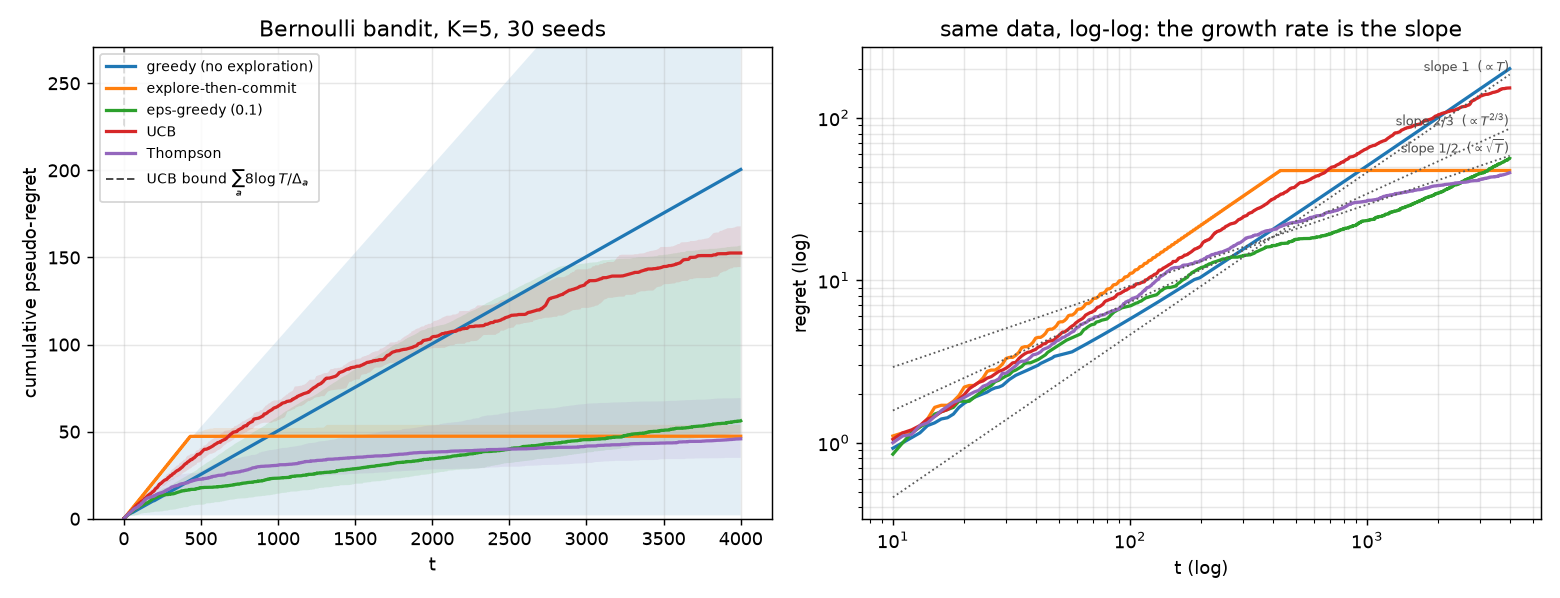
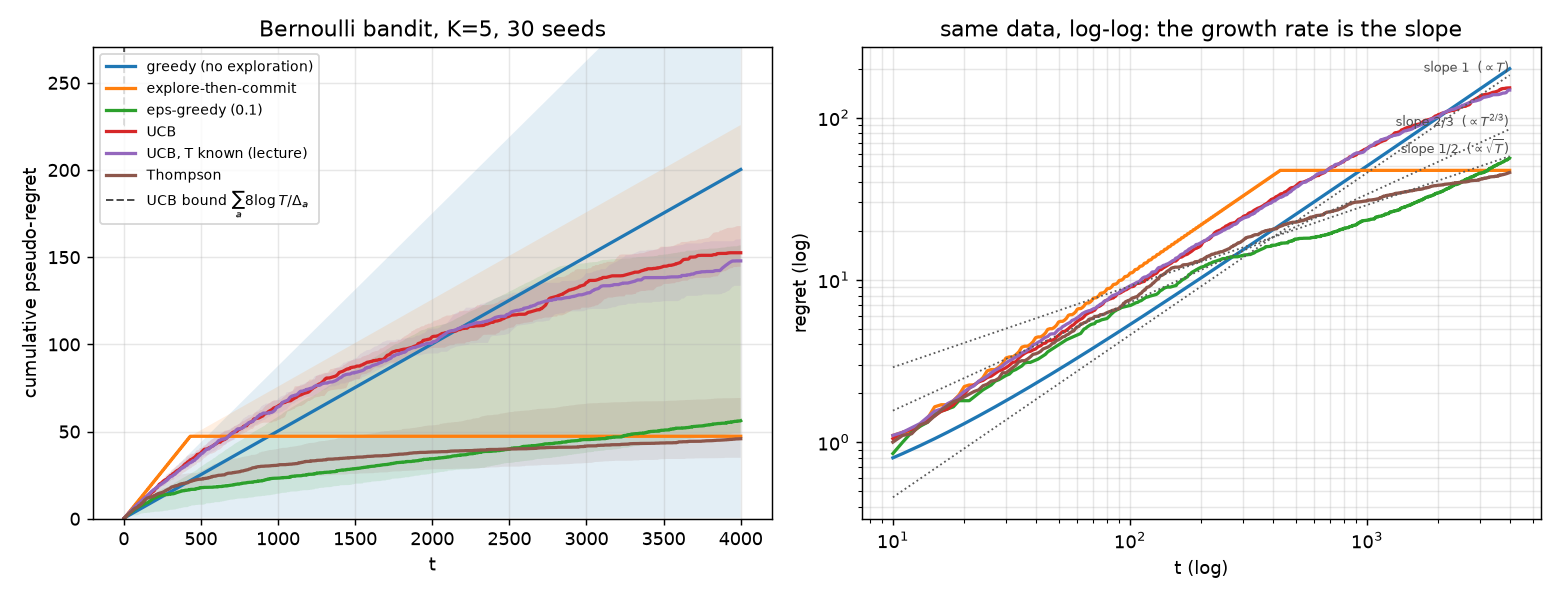
Added RL1 lab

diff --git a/RL/labs/P01_bandits/report.md b/RL/labs/P01_bandits/report.md
@@ -1,10 +1,5 @@
 # P01 report — <your name>, <student ID>
 
-Keep it to one page, about five lines per answer, written in the body of your
-email. Three figures: `regret.png`, the one for Q2, and the one after your Part C
-change. Delete these instructions before submitting.
-
----
 
 ## Q1. The three growth rates
 
@@ -21,8 +16,9 @@ Greedy: slope 1. It tries each arm once, commits to the best of those K single s
 
 ε-greedy: linear (slope 1) in the long run, though at T = 4000 the curve still bends below that line. At every step, with probability ε it pulls a random arm and otherwise the arm with the best running mean. The running means keep correcting an unlucky start by updating the argmax with respect to the newly computed means, but the random pulls never stop: a fixed fraction ε of the steps is wasted forever, at about ε times the average gap, so the regret keeps growing, at a rate that settles to a constant per step.
 
-
 UCB: slope ≈ 1/2 in theory (√T up to a log). At each step it pulls the arm with the highest mean plus a confidence bonus that is large for rarely pulled arms and shrinks as 1/√N, so a bad arm is pulled only until its upper bound falls below the best arm's, after which it is dropped. Unlike ε-greedy, wasted pulls stop by themselves; at T = 4000 the curve is still steeper than the asymptotic slope because it is still exploring.
+
+Thompson: slope below 1. At each step it draws one random value per arm from that arm's Beta belief and pulls the arm with the highest draw, then updates only that arm's successes or failures. A rarely pulled arm has a wide belief, so its draw is sometimes high and it gets tried; as it is pulled its belief narrows around its true mean, so a worse arm is chosen less and less often and the wasted pulls fade out on their own, unlike ε-greedy.
 
 ## Q2. The bound is 17x loose. Is that a problem?
 
@@ -31,6 +27,8 @@ $\sum_a 8\log T / \Delta_a$. The bound is about seventeen times larger than what
 actually happens. Answer, in five lines: is the theorem wrong, is the experiment
 wrong, or neither? What is the bound good for, if not for predicting the number?
 
+Neither: the theorem is not wrong and the experiment is not wrong. The bound is worst-case, valid for every instance with probability 1−δ, and it is loose because its proof assumes an allocation of pulls that UCB does not follow. At T = 4000 the bound exceeds the largest regret that is possible at all, so at this horizon it is vacuous as a number. What it is good for is the shape, not the value: how regret grows with T (logarithmically) and with the gaps (1/Δ), on any instance, which one experiment cannot show. It becomes informative only for much larger T.
+
 Second part, and there is no "official" answer: at $T = 4000$ on this instance,
 the median curve of explore-then-commit ends far **below** UCB, even though its
 bound is $T^{2/3}$ and UCB's is $\sqrt{T}\log T$; its mean, printed by
@@ -38,15 +36,25 @@ bound is $T^{2/3}$ and UCB's is $\sqrt{T}\log T$; its mean, printed by
 experiment would settle which of the two is better? Run it and attach the second
 figure.
 
+At T = 4000, ETC's median (47) is far below UCB's (153) while its mean (142) is level with UCB's (155): most seeds commit correctly and pay only the exploration cost, but a minority commit to a wrong arm and pay Δ for thousands of steps, which drags the mean up and explains the huge std. The T^{2/3} versus √T log T ordering is asymptotic, and at this horizon ETC has stopped exploring after 430 steps while UCB is still exploring. Two horizons show who is accelerating but not who wins; an actual crossover would need a larger T.
+
 ## Q3. Breaking UCB
 
 State the prediction you made **before** running Part C, then what happened, then
 whether your explanation survived. If you predicted correctly for the wrong
 reason, say so: it is worth more than a lucky guess.
 
+Prediction. With δ_t = δ the confidence radius no longer depends on t, and at T = 4000 it is about 3× smaller than with δ/t³. I expect UCB to become less reliable on some seeds, with a regret curve that bends less and tends towards a straight line, and I expect the effect to grow with T.
+Each interval now fails with probability δ at every step, so over thousands of steps there is no guarantee that the best arm's interval holds throughout. If its empirical mean drops below its true value by more than the (smaller) radius, its upper bound falls below another arm's and it stops being pulled. In the original rule t sits inside the logarithm, so the bonus of an unpulled arm keeps growing and eventually forces it to be pulled again.
+I expect a larger std across seeds and a mean above the baseline at large T. At T = 4000 I am less sure: a smaller radius also means less wasted exploration, so the two effects may partly cancel.
+
+Did the explanation survive? Only in part. The hedge for T = 4000, that a smaller radius means less wasted exploration, is what happened. No increasing in std happened
+and ne curves didn't flatten and the regret didn't increase.
+
+
 ## Declaration
 
-Time spent: ~__ h. Collaborators: ______. AI tools used and for what: ______.
+Time spent: ~15 h. Collaborators: No. AI tools used and for what: better comprehension and topics analysis, reasoning by questions.
 (Using them is allowed and expected to be declared, exactly as for a human
 collaborator: you may not ask for the solution, and you are responsible for what
 you submit.)
